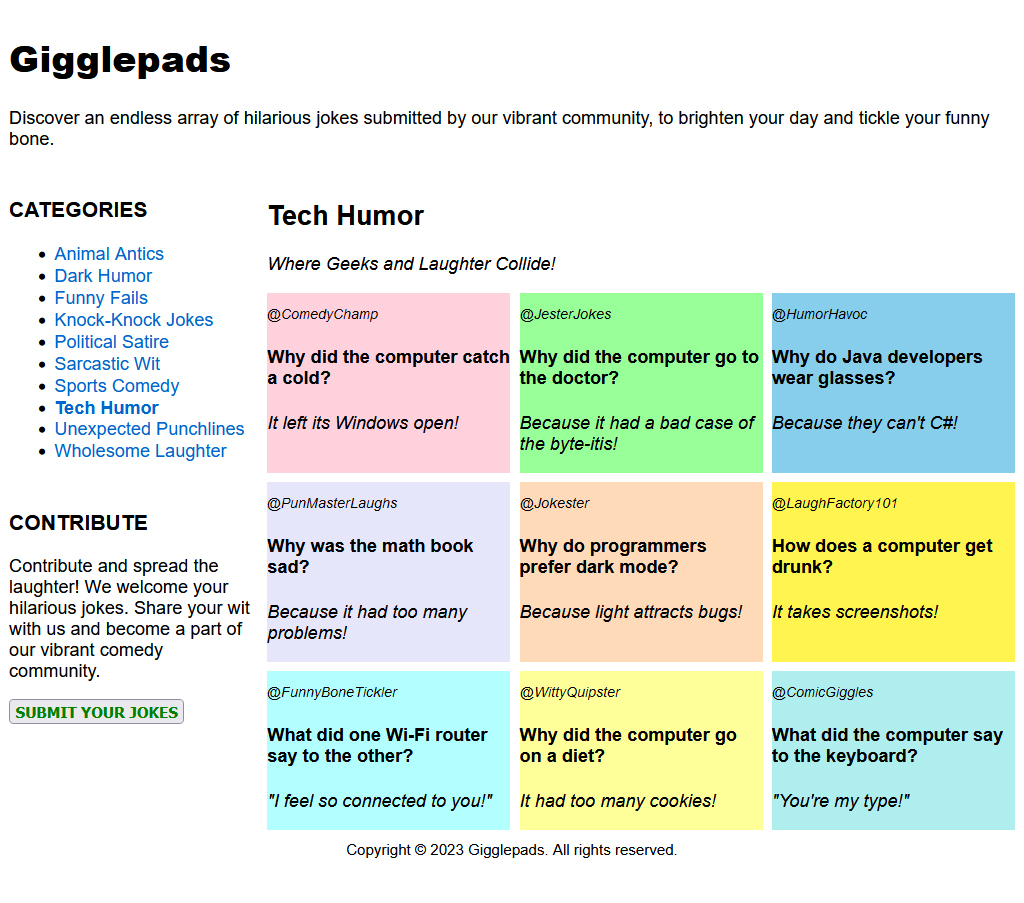
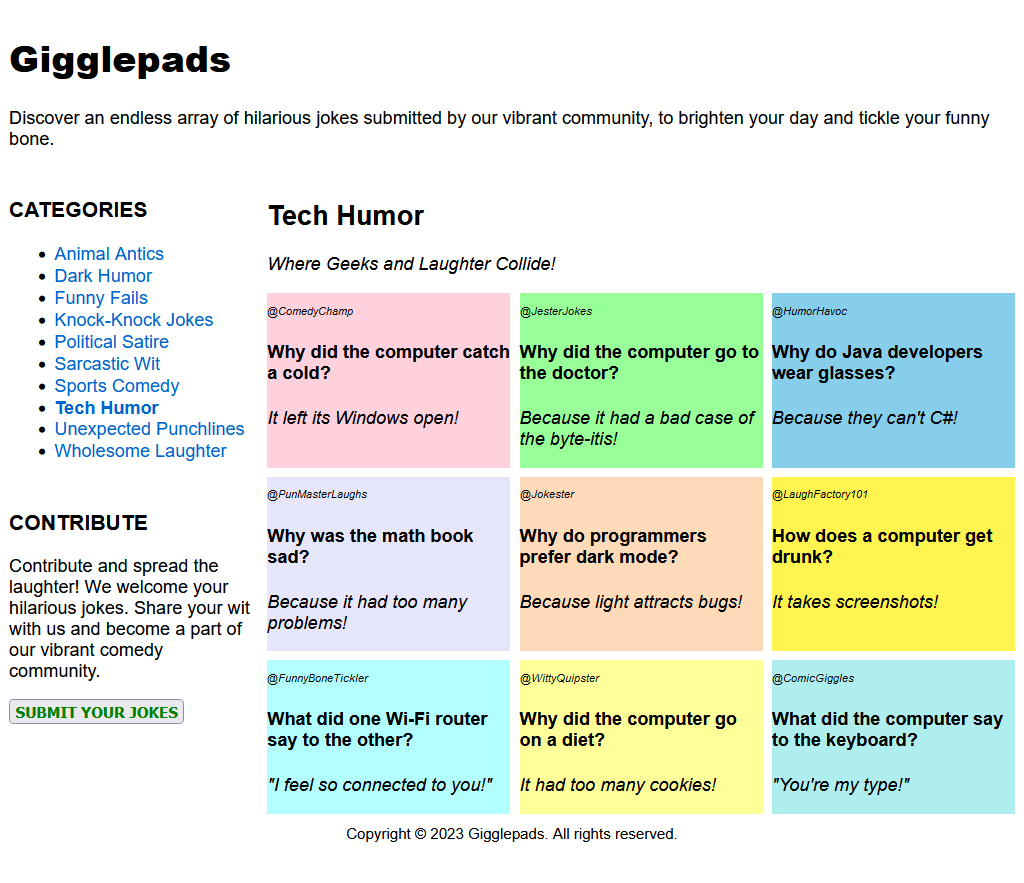
Update README.

diff --git a/README.md b/README.md
@@ -643,12 +643,12 @@ For now, we'll use `px` for **pixels**.
 
 *Example:*
 ```css
-font-size: 12px;
+font-size: 10px;
 ```
 
 ***TODO:***
 Find all elements containing usernames like `@ComedyChamp` and `@JesterJokes`,
-then apply `12px` font size to each of them.
+then apply `10px` font size to each of them.
 
 ##### Text Decoration
 In HTML, we use the `<u>` tag to make text <u>underlined</u>.
@@ -760,3 +760,93 @@ content that are not visible to the user
 but play a crucial role in organizing the layout
 and improving readability.
 
+##### Padding
+Padding refers to the space between the content of an element and its border.
+It is used to create space and increase the distance between the content and the element's edges,
+providing visual separation and improving the overall layout.
+
+To set the padding for an element in CSS,
+we use the `padding` property and specify a value
+with a unit of measurement, such as `px` for **pixels**.
+
+Padding can be applied to all four sides of an element at once.
+
+*Example:*
+```css
+padding: 15px;
+```
+
+Padding can also be applied to individual sides (top, right, bottom, and left)
+of an element.
+
+*Example:*
+```css
+padding-top: 8px;
+padding-right: 10px;
+padding-bottom: 8px;
+padding-left: 10px;
+```
+
+***TODO:***
+1. Apply a `padding` of `15px` to every element with the following tag:
+   - `<header>`
+   - `<nav>`
+   - `<aside>`
+   - `<main>`
+   - `<footer>`
+   - `<article>`
+   
+2. Apply a `padding` of `0` to the `<ul>` element inside `<nav>`.
+   Also, add the style `"list-style-type: none;"`
+   to hide the bullets in its list elements.
+
+3. Apply a `padding` of `4px` to each `<li>` element inside `<nav>`.
+
+4. Apply a `padding` of `6px` to the `<button>` element.
+   Also, add the style `"width: 100%;"` for it to occupy the entire
+   width of its container.
+
+##### Margin
+Margin refers to the space outside the borders of an element.
+It creates space between the element and its neighboring elements.
+Margins are used to control the spacing between elements,
+providing visual separation and influencing the overall layout of a webpage. 
+
+Margin can be applied to all four sides of an element at once.
+
+*Example:*
+```css
+margin: 15px;
+```
+
+Margin can also be applied to individual sides (top, right, bottom, and left)
+of an element.
+
+*Example:*
+```css
+margin-top: 10px;
+margin-right: 15px;
+margin-bottom: 10px;
+margin-left: 15px;
+```
+
+***TODO:***
+1. Apply a `margin-top` of `0` to each of the following elements:
+   - `<h1>` **"Gigglepads"**  inside `<header>`
+   - `<h3>` **"CATEGORIES"** inside `<nav>`
+   - `<h3>` **"CONTRIBUTE"** inside `<aside>`
+   - `<h2>` **"Tech Humor"** inside `<main>`
+
+2. Apply a `margin-bottom` of `0` to:
+   - `<h2>` **"Tech Humor"** inside `<main>`
+
+3. Apply a `margin-top` of `4px` to:
+   - `<p>` ***"Where Geeks and Laughter Collide!"*** inside `<main>`
+
+4. Apply a `margin` of `0` to the `<ul>` element inside `<nav>`.
+
+---
+
+After completing all the *TODO*s,
+please verify that your output matches the one provided
+at the beginning of this activity.
